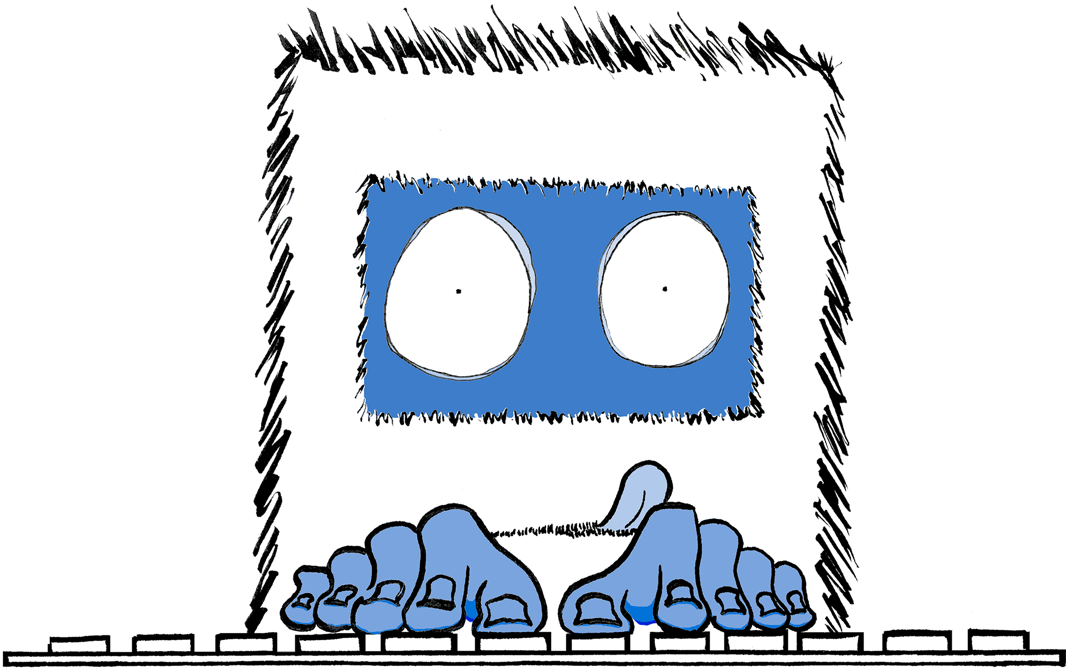
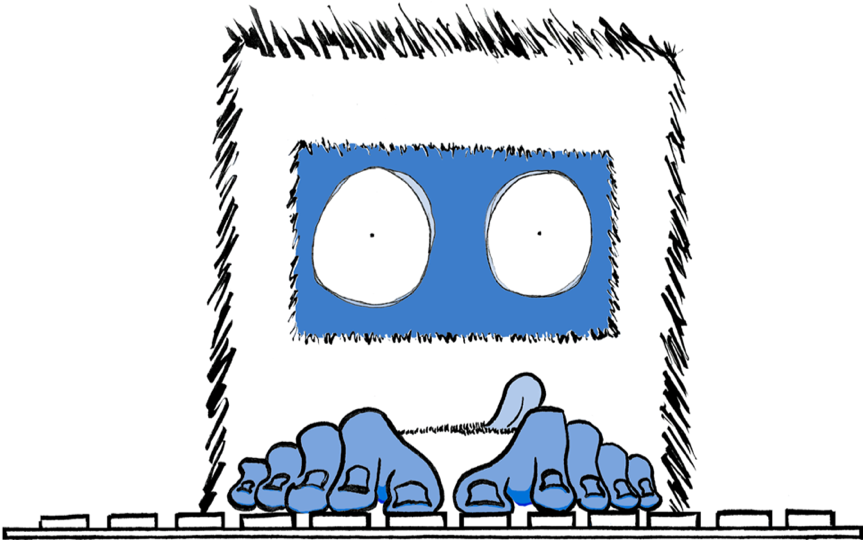
Portfolio changes: Centering images, backdrop changes, etc.

diff --git a/portfolio/style.css b/portfolio/style.css
@@ -43,18 +43,21 @@ h3 {
 }
 
 .mainImage {
-  padding: 8px 0 8px;
-  width: 100%;
+  text-align: center;
 }
 
-.featuredWork h1 {
-  margin: 0 0 10px 10px;
+.mainImage img {
+  padding: 8px 0 8px;
+  max-width: 100%;
+}
+
+.featuredTitle {
+  background: lightblue;
 }
 
 .featuredWork {
   display: flex;
-  flex-direction: row;
-  justify-content: space-around;
+  justify-content: center;
   width: 100%;
 }
 
@@ -62,4 +65,43 @@ h3 {
   display: flex;
   flex-direction: column;
   justify-content: space-between;
+  margin: 15px 25px;
+  padding: 10px;
+  text-align: center;
+}
+
+.card img {
+  -webkit-box-shadow: 10px 10px 5px 0px rgba(0,0,0,0.23);
+  -moz-box-shadow: 10px 10px 5px 0px rgba(0,0,0,0.23);
+  box-shadow: 10px 10px 5px 0px rgba(0,0,0,0.23);
+  height: 200px;
+}
+
+.cardTitle {
+  margin-top: 15px;
+}
+
+@media (max-width: 600px) {
+  .featuredTitle {
+    justify-content: center;
+  }
+}
+
+@media (max-width: 876px) {
+  .name h1 {
+    font-size: 22px;
+  }
+  h2 {
+    font-size: 22px;
+  }
+  h3 {
+    font-size: 14px;
+  }
+  .featuredWork {
+    display: flex;
+    flex-wrap: wrap;
+  }
+  .shield {
+    max-width: 50px;
+  }
 }

diff --git a/portfolio/index.html b/portfolio/index.html
@@ -16,24 +16,24 @@
 
     <hr></hr>
 
-    <div>
-      <img class="mainImage" src="./codesquatch.png" alt="Codesquatch">
+    <div class="mainImage">
+      <img src="./codesquatch.png" alt="Codesquatch">
     </div>
 
-    <h1>Featured Work</h1>
+    <h1 class="featuredTitle">Featured Work</h1>
     
     <div class="featuredWork">
         <div class="card">
           <img src="./pixel-art-maker.png" alt="Pixel Art Maker">
-          <h2 class="workTitles">Pixel Art Maker</h2>
+          <h2 class="cardTitle">Pixel Art Maker</h2>
         </div>
-        <div class="card"></div>
-          <img src="./trading-card.png" alt="Trading Card">
-          <h2 class="workTitles">Animal Trading Card</h2>
+        <div class="card">
+          <img src="./hedgehog.png" alt="Trading Card">
+          <h2 class="cardTitle">Animal Trading Card</h2>
         </div>
         <div class="card">
           <img src="./drum-kit.png" alt="Drum Kit">
-          <h2 class="workTitles">Drum Hero</h2>
+          <h2 class="cardTitle">Drum Hero</h2>
         </div>
     </div>
   </body>
